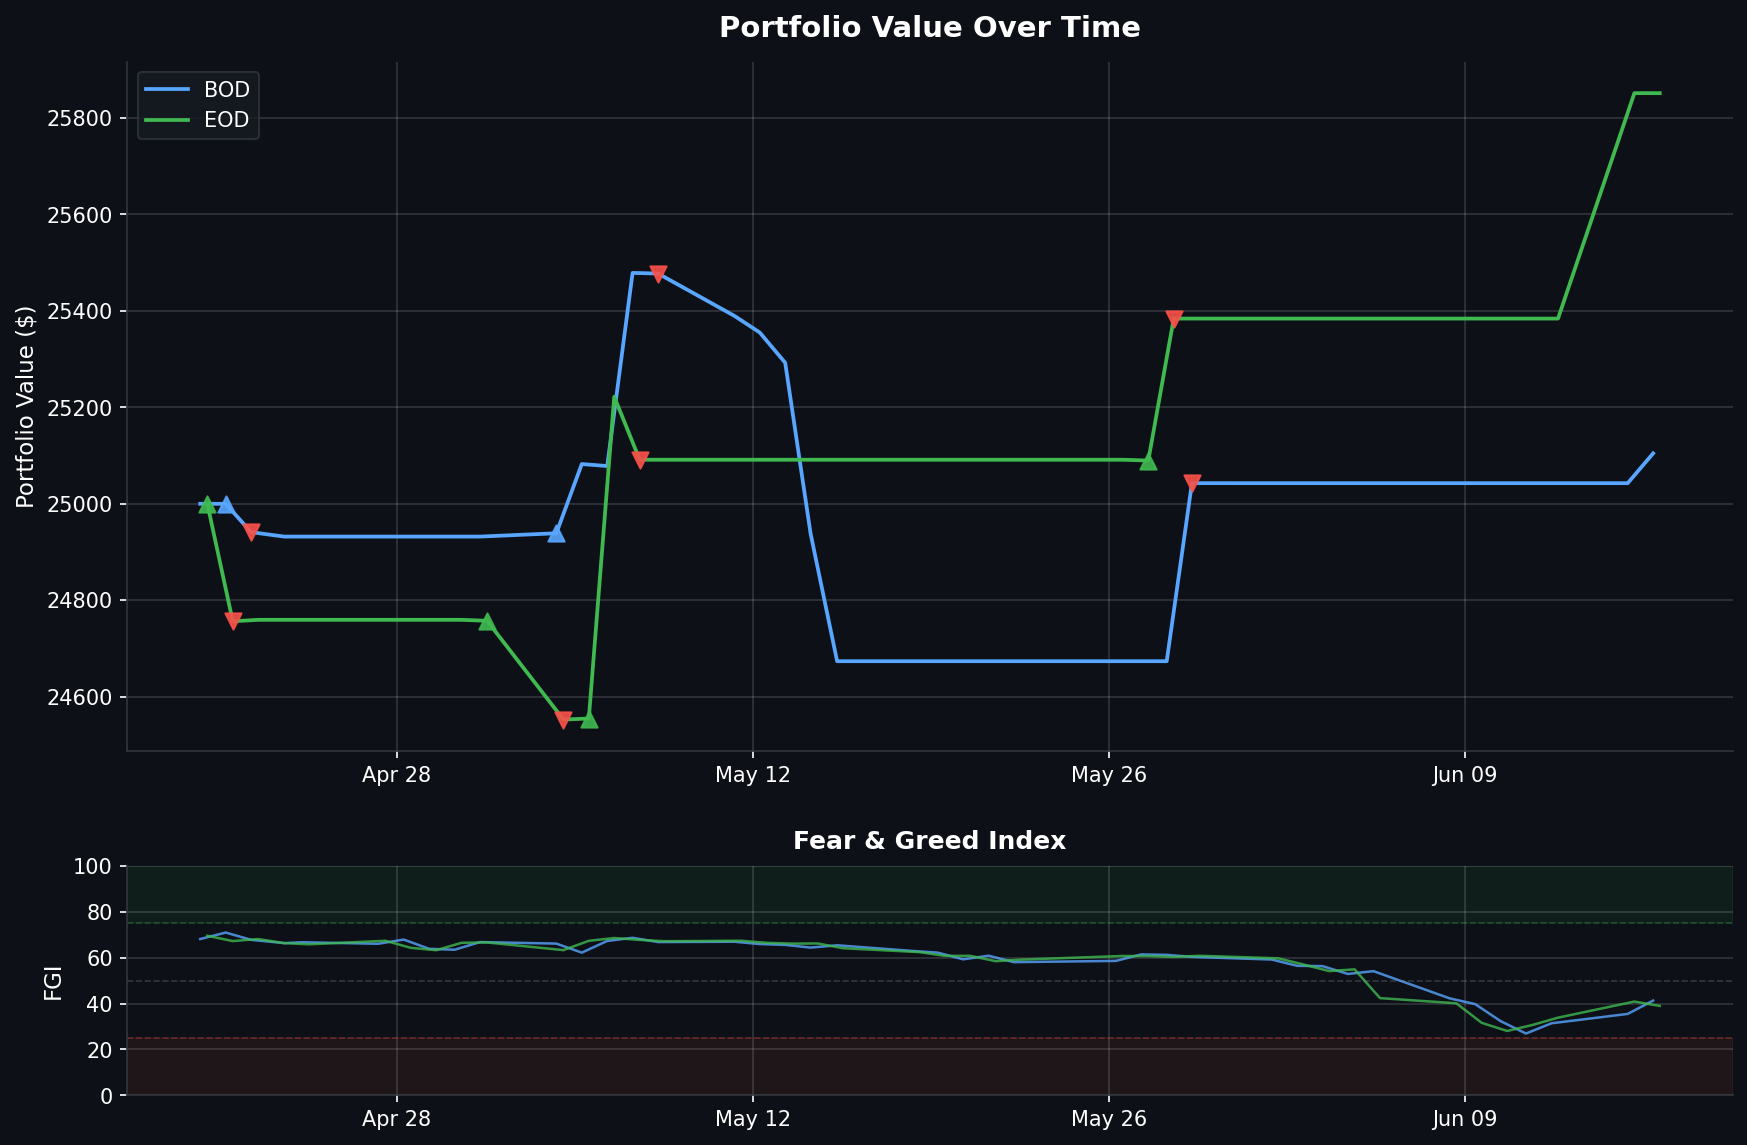
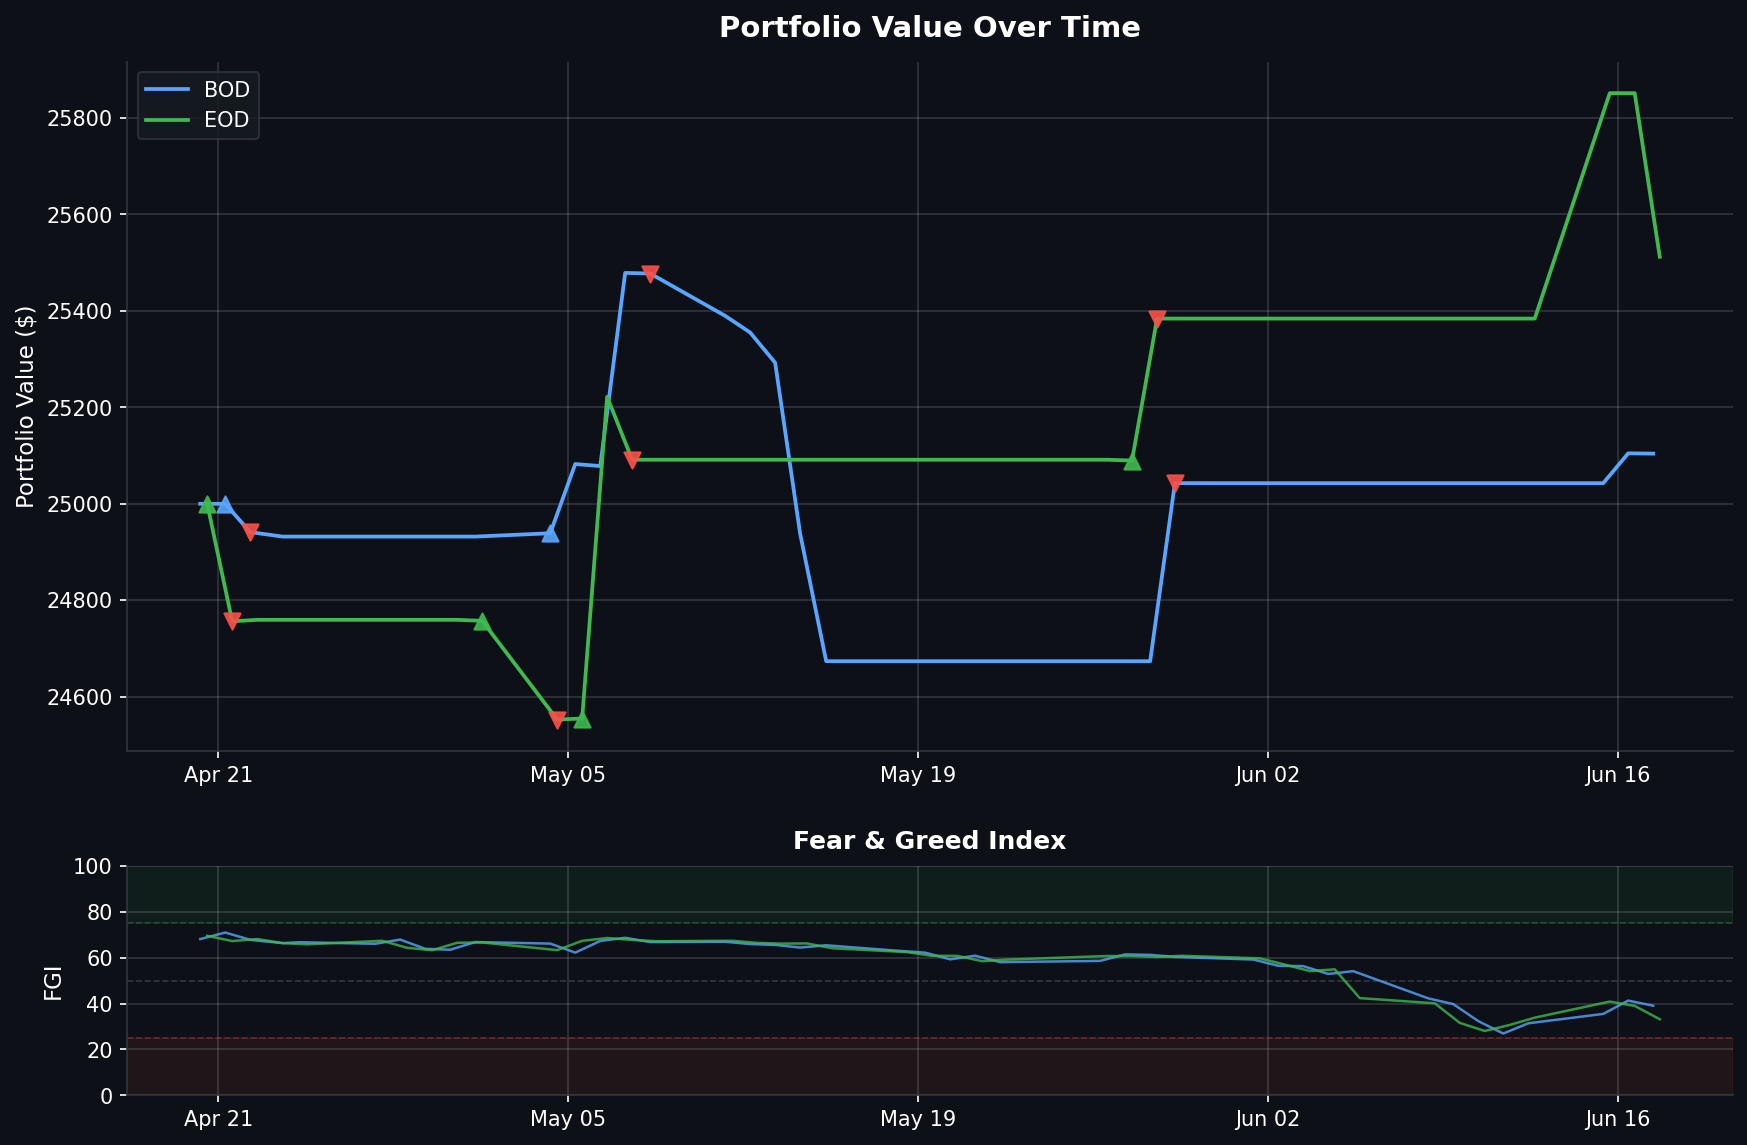
Daily data backup 2026-06-17

diff --git a/README.md b/README.md
@@ -1,6 +1,6 @@
 # Fear & Greed Index Trading Bot
 
-> Dashboard auto-updated daily at market close | Last update: **2026-06-16 13:30 PST**
+> Dashboard auto-updated daily at market close | Last update: **2026-06-17 13:30 PST**
 
 ![Portfolio Performance](assets/portfolio_chart.png)
 
@@ -10,14 +10,14 @@
 
 | Metric | Value |
 |--------|-------|
-| Portfolio Value | **$25,104.64** |
-| Buying Power | $75,947.16 |
-| Current FGI | 41.29 |
+| Portfolio Value | **$25,104.08** |
+| Buying Power | $100,416.32 |
+| Current FGI | 39.06 |
 | Position | FLAT |
 | Total P&L | **$+995** |
 | Win Rate | 50% (1W / 1L) |
 | Total Round Trips | 2 |
-| Last Signal | NO_ACTION @ 2026-06-16 09:35 |
+| Last Signal | NO_ACTION @ 2026-06-17 09:35 |
 
 <details>
 <summary>Trade History (2 trades)</summary>
@@ -34,11 +34,11 @@
 
 | Time | Action | Price | FGI | Momentum | Velocity | Volatility | Reason |
 |------|--------|-------|-----|----------|----------|------------|--------|
+| 06-17 09:35 | NO_ACTION | $750.70 | 39.06 | 0.45 | 2.55 | 0.55 | BUY did not fill after 3 attempts |
 | 06-16 09:35 | NO_ACTION | $755.20 | 41.29 | 5.23 | 4.78 | 0.55 | SELL incomplete - still holding 32 after 5 attempts |
 | 06-15 09:36 | NO_ACTION | $752.84 | 35.49 | 4.21 | 1.04 | 0.55 | BUY did not fill after 3 attempts |
 | 06-12 09:35 | NO_ACTION | $738.25 | 31.4 | 1.16 | -2.79 | 0.55 | Insufficient momentum/velocity for entry |
 | 06-11 09:35 | NO_ACTION | $727.08 | 26.94 | -6.09 | -5.11 | 0.55 | Insufficient momentum/velocity for entry |
-| 06-10 09:35 | NO_ACTION | $731.72 | 32.37 | -5.76 | -7.25 | 0.55 | Insufficient momentum/velocity for entry |
 
 </details>
 
@@ -48,14 +48,14 @@
 
 | Metric | Value |
 |--------|-------|
-| Portfolio Value | **$25,851.50** |
-| Buying Power | $103,406.00 |
-| Current FGI | 38.97 |
+| Portfolio Value | **$25,512.26** |
+| Buying Power | $102,049.04 |
+| Current FGI | 33.17 |
 | Position | FLAT |
 | Total P&L | **$+302** |
 | Win Rate | 50% (2W / 2L) |
 | Total Round Trips | 4 |
-| Last Signal | NO_ACTION @ 2026-06-16 15:50 |
+| Last Signal | NO_ACTION @ 2026-06-17 15:52 |
 
 <details>
 <summary>Trade History (4 trades)</summary>
@@ -74,11 +74,11 @@
 
 | Time | Action | Price | FGI | Momentum | Velocity | Volatility | Reason |
 |------|--------|-------|-----|----------|----------|------------|--------|
+| 06-17 15:52 | NO_ACTION | $739.73 | 33.17 | -4.50 | -0.23 | 0.55 | SELL incomplete - still holding 34 after 5 attempts |
 | 06-16 15:50 | NO_ACTION | $751.20 | 38.97 | 1.07 | 2.76 | 0.55 | BUY did not fill after 3 attempts |
 | 06-15 15:52 | NO_ACTION | $754.49 | 40.86 | 5.72 | 4.27 | 0.55 | SELL incomplete - still holding 34 after 5 attempts |
 | 06-12 15:50 | NO_ACTION | $741.06 | 33.86 | 2.99 | 0.75 | 0.55 | BUY did not fill after 3 attempts |
 | 06-11 15:50 | NO_ACTION | $737.93 | 30.69 | 0.57 | -3.14 | 0.55 | Insufficient momentum/velocity for entry |
-| 06-10 15:50 | NO_ACTION | $725.69 | 28.06 | -5.20 | -4.77 | 0.55 | Insufficient momentum/velocity for entry |
 
 </details>
 
